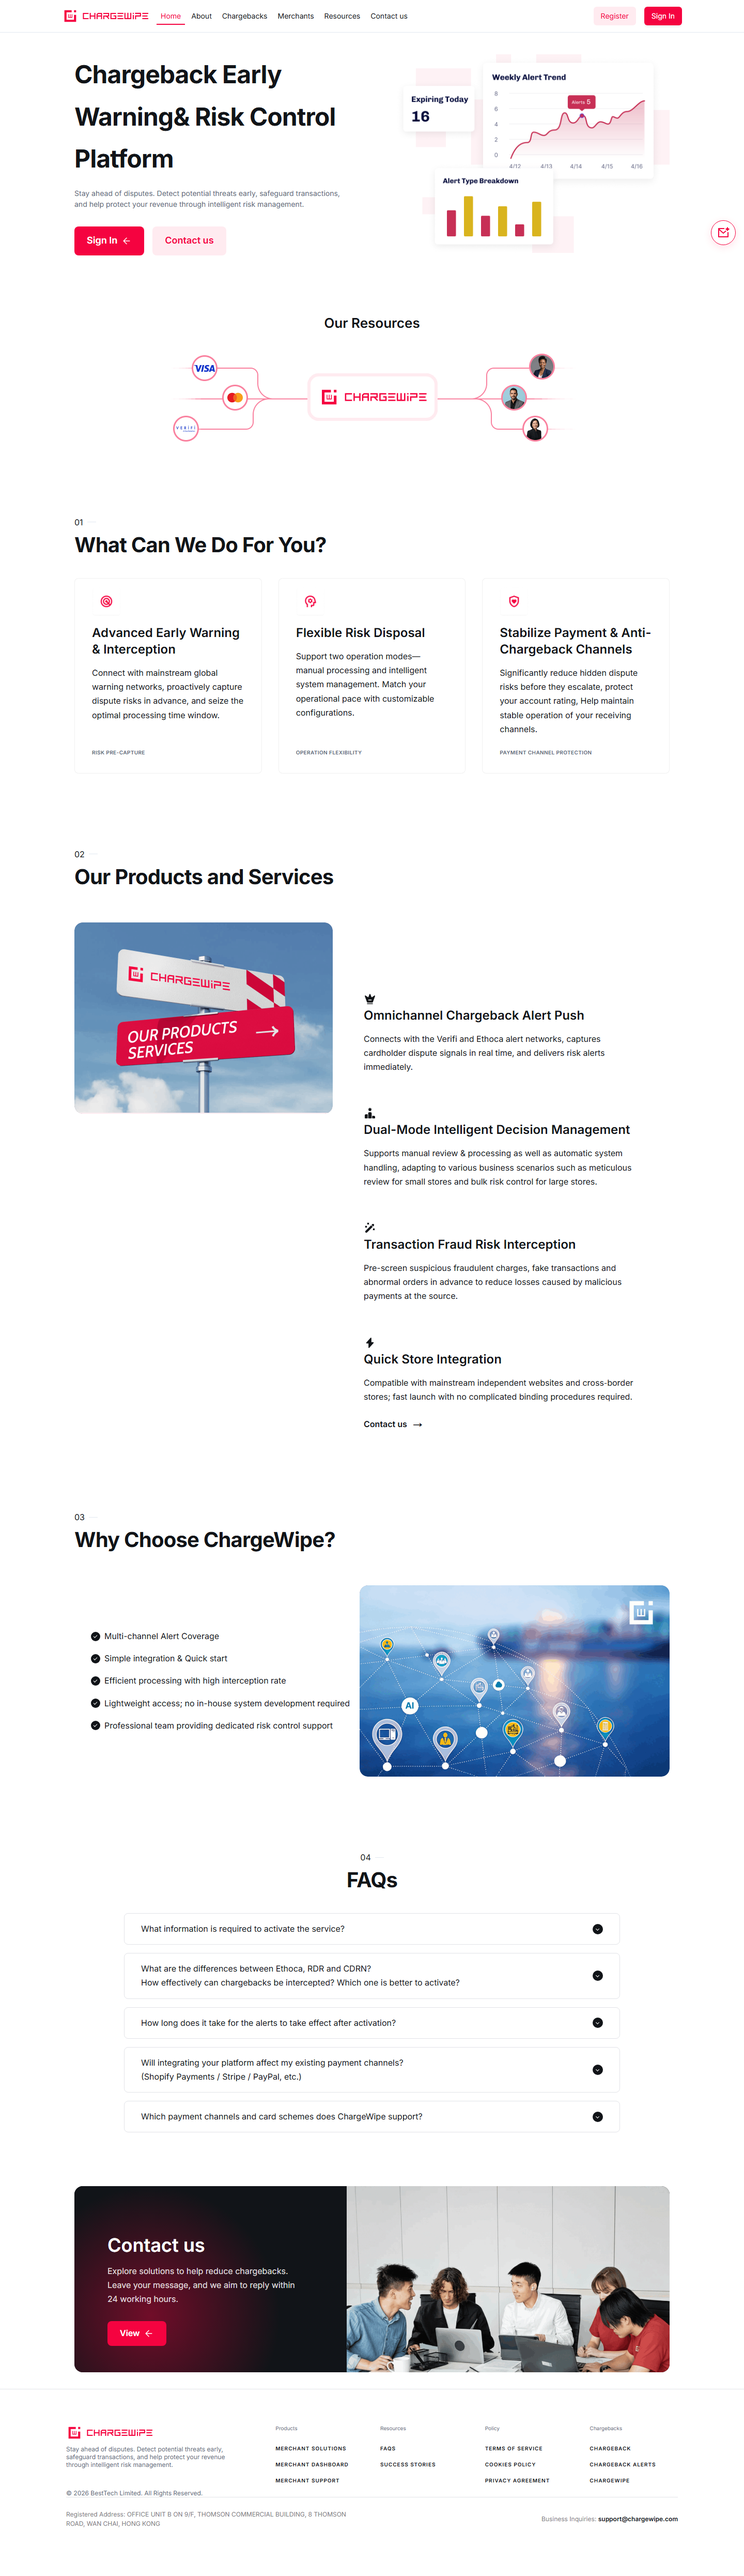
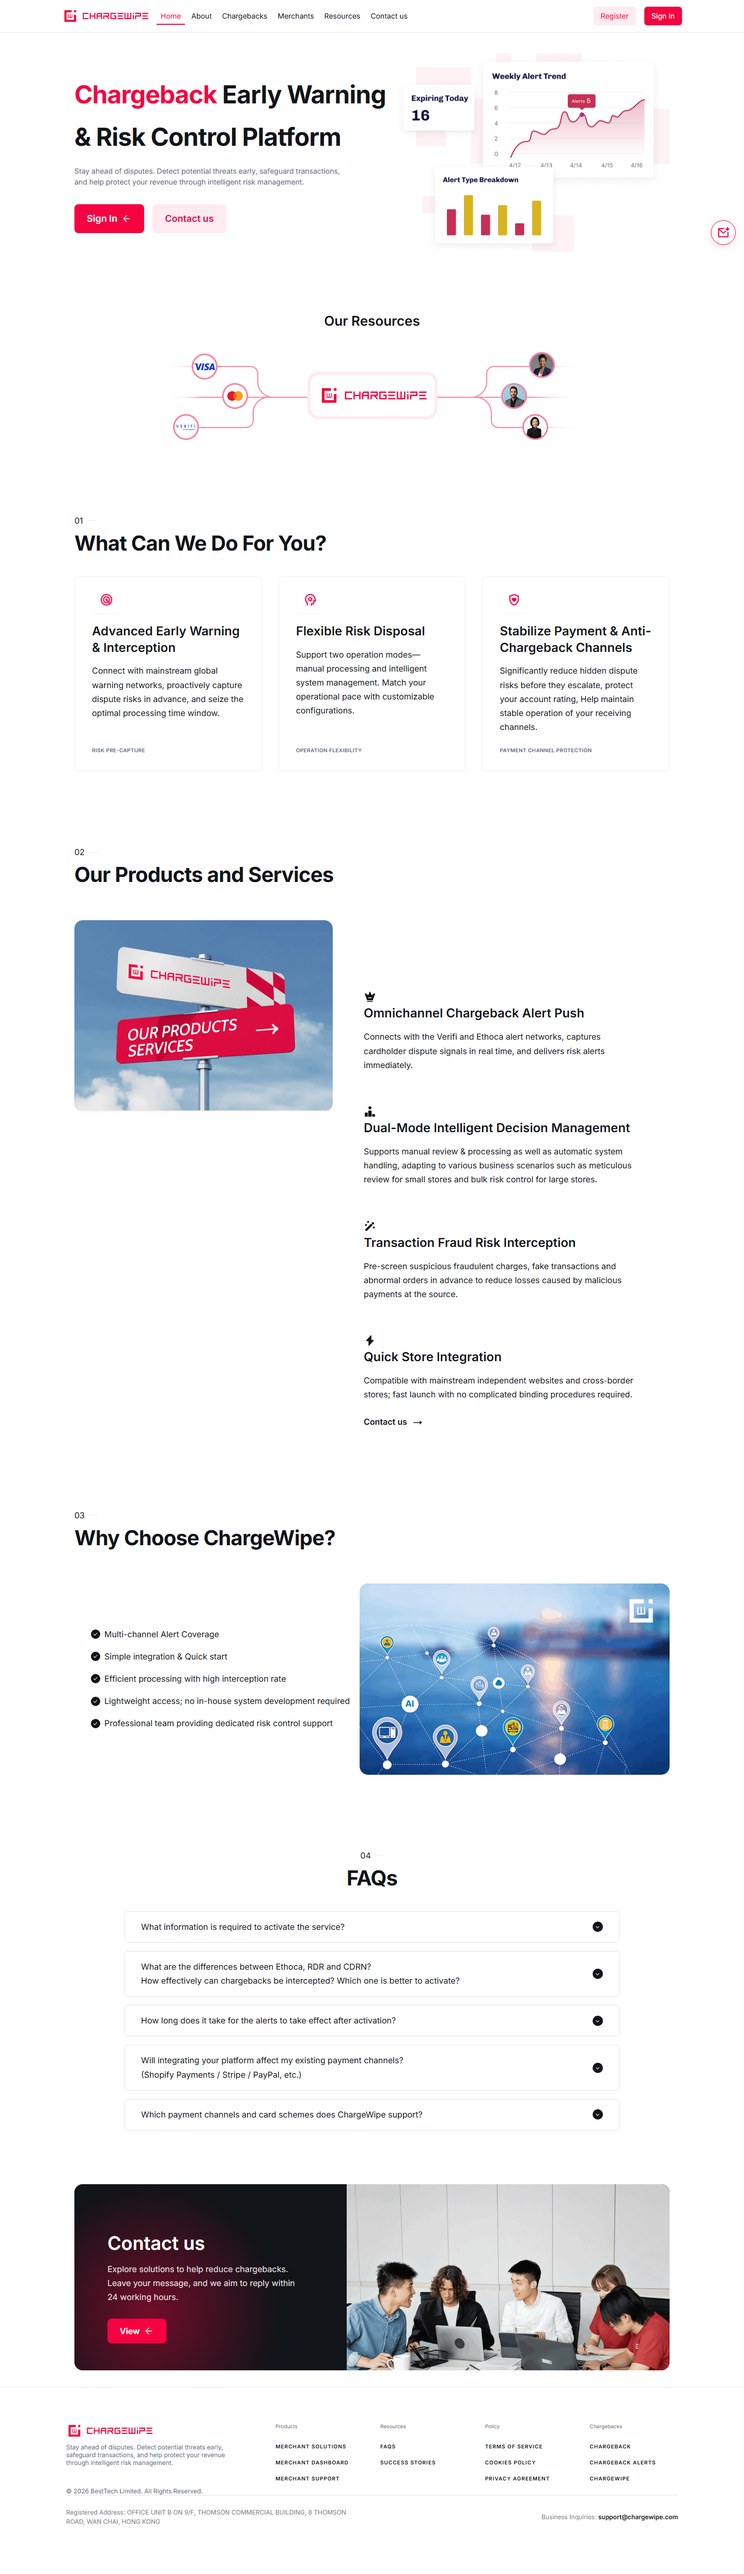
fix: two-line hero title with accent-coloured first word

diff --git a/learners/week01/qing/home.css b/learners/week01/qing/home.css
@@ -28,16 +28,25 @@
   align-items: center;
 }
 
-/* The hero heading is 48px but must not overflow its 589px column on any
-   screen, so it may break at any point rather than forcing a third line
-   with an over-long word. */
+/* The hero heading is split into two block lines. The first one is set
+   nowrap and is allowed to run slightly past the column (that is exactly what
+   the reference does), which keeps the title on two lines instead of three. */
 .hp-hero-copy h1 {
   font-size: 48px;
   font-weight: 700;
   line-height: 1.7;
   letter-spacing: -0.02em;
   color: var(--foreground);
-  overflow-wrap: break-word;
+}
+
+.hp-hero-line {
+  display: block;
+  white-space: nowrap;
+}
+
+/* Only the first word is accent-coloured, as on the reference. */
+.hp-hero-accent {
+  color: var(--accent);
 }
 
 .hp-hero-copy > p {
@@ -956,6 +965,12 @@
     font-weight: 600;
     line-height: 1.2;
     letter-spacing: normal;
+  }
+
+  /* nowrap would push the title past the screen edge on a phone. */
+  .hp-hero-line {
+    display: inline;
+    white-space: normal;
   }
 
   /* Tighten the hero's vertical rhythm to the reference's phone spacing. */

diff --git a/learners/week01/qing/home.html b/learners/week01/qing/home.html
@@ -54,11 +54,15 @@
         <div class="hp-hero-inner">
           <div class="hp-hero-grid">
             <div class="hp-hero-copy">
-              <!-- The two lines are separated by a space, not by a <br>: the
-                   reference renders "Warning&" as one word sequence, and the
-                   heading must not glue "Early" to "Warning" on phones. -->
+              <!-- The reference splits the heading into two block-level spans
+                   and lets the first one overflow its box (whitespace-nowrap)
+                   rather than wrap. Replaying that structure is what produces
+                   the intended two-line title. -->
               <h1 id="home-title">
-                Chargeback Early Warning&amp; Risk Control Platform
+                <span class="hp-hero-line">
+                  <span class="hp-hero-accent">Chargeback</span> Early Warning
+                </span>
+                <span class="hp-hero-line">&amp; Risk Control Platform</span>
               </h1>
               <p>
                 Stay ahead of disputes. Detect potential threats early,
